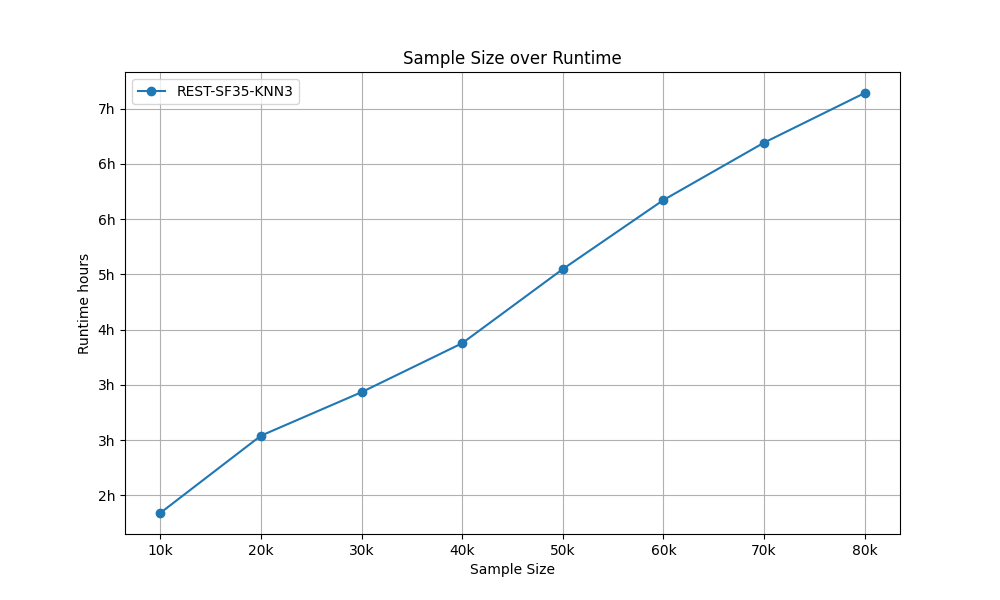
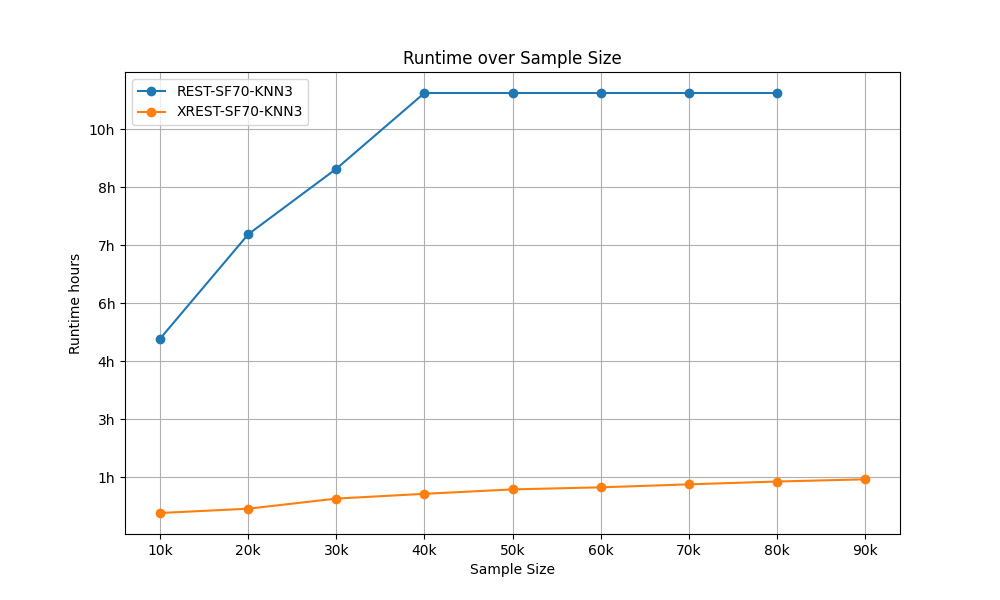
more plotting dat

diff --git a/algo/src/main.rs b/algo/src/main.rs
@@ -8,7 +8,7 @@ pub mod rest;
 pub mod spatial_filter;
 
 fn run_config(conf: Config) -> Result<(), csv::Error> {
-    rest_main(conf.clone(), false, 5)?;
+    rest_main(conf.clone(), false, 1)?;
     Ok(())
 }
 
@@ -17,83 +17,22 @@ fn main() -> Result<(), csv::Error> {
     let dtw_dist = 200;
     let mut rest_mode = RestMode {
         rs: 100,
-        compression_ratio: 5,
+        compression_ratio: 3,
         spatial_filter: true,
         include_entire_trajectory: true,
-        k: 0,
+        k: 3,
         error_point: 70,
     };
-    run_config(Config {
-        n,
-        max_dtw_dist: dtw_dist,
-        mode: Mode::Rest(rest_mode),
-        dtw_band: 0,
-    })?;
-    rest_mode.k = 3;
-    run_config(Config {
-        n,
-        max_dtw_dist: dtw_dist,
-        mode: Mode::Rest(rest_mode),
-        dtw_band: 0,
-    })?;
-    rest_mode.k = 0;
-    rest_mode.error_point = 120;
-    run_config(Config {
-        n,
-        max_dtw_dist: dtw_dist,
-        mode: Mode::Rest(rest_mode),
-        dtw_band: 0,
-    })?;
-    rest_mode.k = 3;
-    run_config(Config {
-        n,
-        max_dtw_dist: dtw_dist,
-        mode: Mode::Rest(rest_mode),
-        dtw_band: 0,
-    })?;
-
-    //XREST
-    rest_mode.include_entire_trajectory = false;
-    rest_mode.k = 0;
-    rest_mode.error_point = 120;
-    run_config(Config {
-        n,
-        max_dtw_dist: dtw_dist,
-        mode: Mode::Rest(rest_mode),
-        dtw_band: 0,
-    })?;
-    rest_mode.k = 3;
-    run_config(Config {
-        n,
-        max_dtw_dist: dtw_dist,
-        mode: Mode::Rest(rest_mode),
-        dtw_band: 0,
-    })?;
-
-    rest_mode.k = 0;
-    rest_mode.spatial_filter = false;
-    rest_mode.error_point = 0;
-    run_config(Config {
-        n,
-        max_dtw_dist: dtw_dist,
-        mode: Mode::Rest(rest_mode),
-        dtw_band: 0,
-    })?;
-    rest_mode.include_entire_trajectory = true;
-    run_config(Config {
-        n,
-        max_dtw_dist: dtw_dist,
-        mode: Mode::Rest(rest_mode),
-        dtw_band: 0,
-    })?;
-
-    //DP DTW
-    run_config(Config {
-        n,
-        max_dtw_dist: dtw_dist,
-        mode: Mode::DP(DpMode {}),
-        dtw_band: 0,
-    })?;
+    let foo = vec![300, 400, 500, 600, 700, 800, 900, 1000];
+    for f in &foo[1..] {
+        rest_mode.rs = *f;
+        run_config(Config {
+            n,
+            max_dtw_dist: dtw_dist,
+            mode: Mode::Rest(rest_mode.clone()),
+            dtw_band: 0,
+        })?;
+    }
 
     Ok(())
 }

diff --git a/plotting/plot_sample.py b/plotting/plot_sample.py
@@ -1,0 +1,75 @@
+import pandas as pd
+import matplotlib.pyplot as plt
+import matplotlib.ticker as ticker
+
+def no_format(value):
+    return value
+def format_1k(value):
+    # Formats large numbers to 'k' notation for thousands
+    return f'{int(value/1000)}k' if value >= 1000 else str(int(value))
+def format_seconds_minutes(value):
+    # Convert seconds to hours and format the number with two decimal places
+    hours = value / 3600  # Convert seconds to hours
+    return f'{hours:.0f}h'  # Format the result as a float with two decimals followed by 'h'
+
+def plot_grouped_data(df, group_column, x_column, y_column, path, titles, x_format, y_format):
+    grouped_data = df.groupby(group_column)
+
+    plt.figure(figsize=(10, 6))
+    lines = []
+    labels = []
+    for name, group in sorted(grouped_data, key=lambda x: x[0]):  # Sort by group name
+        # Convert runtime from seconds to hours
+        line, = plt.plot(group[x_column], group[y_column], marker='o')
+        lines.append(line)
+        labels.append(name)
+
+    plt.xlabel(titles['x'])
+    plt.ylabel(titles['y'])
+    plt.title(titles['title'])
+    plt.legend(lines, labels)  # Add sorted labels without a title
+    plt.grid(True)
+
+    # Set x-axis formatter
+    plt.gca().xaxis.set_major_formatter(ticker.FuncFormatter(lambda x, pos: x_format(x)))
+    # Set y-axis formatter
+    plt.gca().yaxis.set_major_formatter(ticker.FuncFormatter(lambda y, pos: y_format(y)))
+
+    plt.savefig(path)
+
+# Apply the function with direct conversion of runtime to hours
+titles = {
+    'title': 'Total Compression over Sample Size',
+    'y': 'Total Compression Ratio',
+    'x': 'Sample Size',
+}
+file_path = 'tmp2.csv'
+plot_grouped_data(pd.read_csv(file_path), 'mode', 'sample_size', 'tot_cr', 'sample_size_tot.png', titles, format_1k, no_format)
+plot_grouped_data(
+    pd.read_csv(file_path),
+    'mode',
+    'sample_size',
+    'avg_cr',
+    'sample_size_avg.png',
+    {
+        'title': 'Average Compression over Sample Size',
+        'y': 'Average Compression Ratio',
+        'x': 'Sample Size',
+    },
+    format_1k,
+    no_format,
+)
+plot_grouped_data(
+    pd.read_csv(file_path),
+    'mode',
+    'sample_size',
+    'runtime',
+    'sample_size_runtime.png',
+    {
+        'title': 'Runtime over Sample Size',
+        'y': 'Runtime hours',
+        'x': 'Sample Size',
+    },
+    format_1k,
+    format_seconds_minutes,
+)
